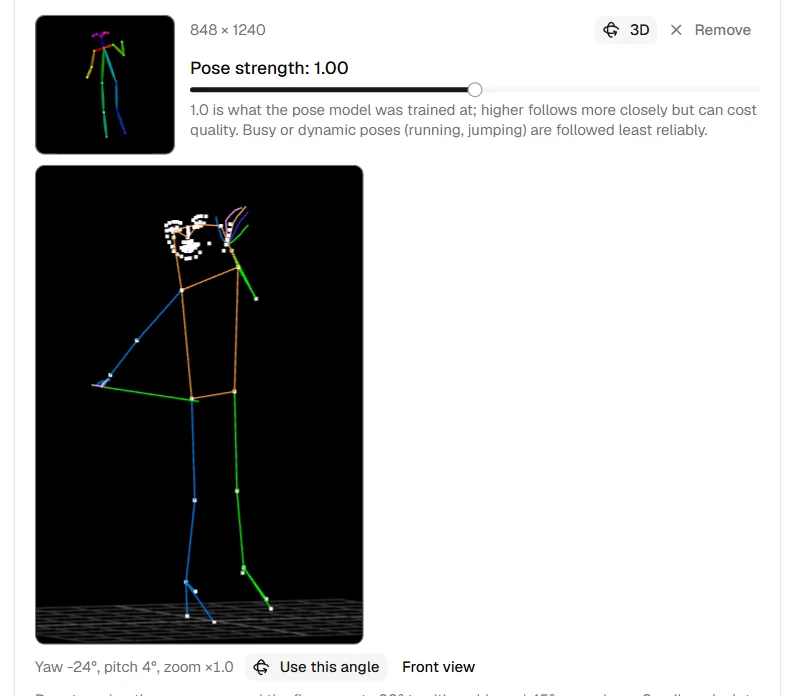
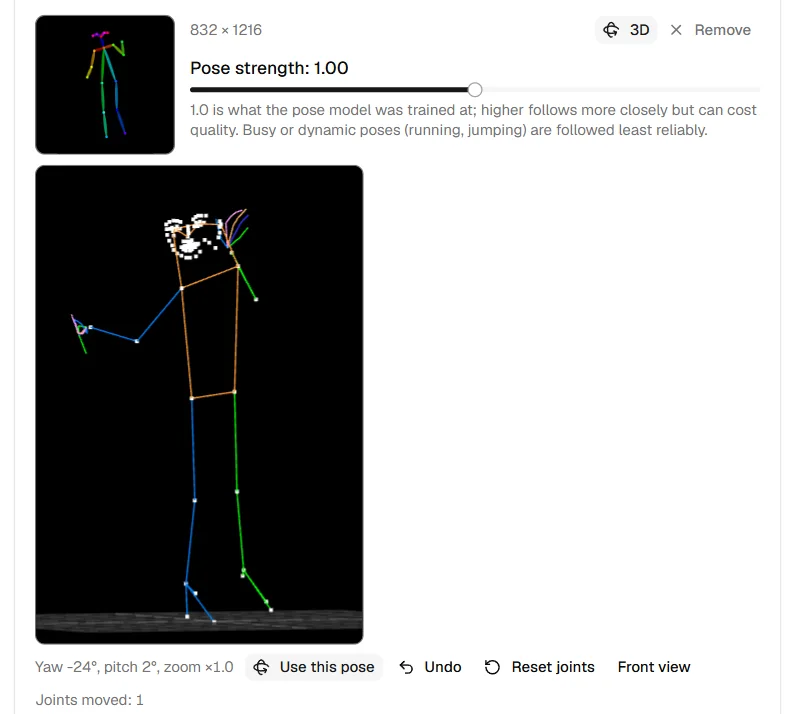
Show a raised hand in the guide's 3D view screenshot (#139)
* Show a raised hand in the guide's 3D view screenshot

The shot raises the lower wrist, found from the 3D answer, then swings
the camera from a corner away from the figure, and takes Undo, Reset
joints and the moves count in.

* Retake the guide's 3D view screenshot with a raised hand

Reusing a gallery drawn before left the engine's model unloaded, so the
3D shot now loads it and waits for pose; shotBetween takes a smaller
margin below, so the next line does not show cut in half.

---------

diff --git a/e2e/screenshots/engine.shots.ts b/e2e/screenshots/engine.shots.ts
@@ -41,8 +41,21 @@ test('the engine draws the gallery', async ({ page }) => {
   if (earlier && existsSync(earlier)) cpSync(earlier, path.join(root, 'out'), { recursive: true })
   const drawn = readdirSync(path.join(root, 'out')).join('\n')
   const missing = PICTURES.filter(([, , seed]) => !drawn.includes(`_engine_${seed}_`))
-  if (missing.length === 0) return
   await openGenerate(page, 'engine')
+  if (missing.length === 0) {
+    // Nothing to draw, so nothing loads the model; the shots after this need it in.
+    // Asked again until the engine is up to take it (409 until then).
+    await expect
+      .poll(
+        async () => {
+          const load = await page.request.post('/api/engine/models/load', { data: { id: process.env.DOCS_ENGINE_MODEL } })
+          return `${load.status()} ${await load.text()}`
+        },
+        { timeout: 3 * 60_000, intervals: [3000] }
+      )
+      .toMatch(/^202 /)
+    return
+  }
   const generate = page.getByRole('button', { name: 'Generate', exact: true })
   for (const [prompt, size, seed] of missing) {
     await page.locator('#prompt').fill(prompt)
@@ -82,6 +95,8 @@ take('screenshot-viewer')('viewer, with WD14 tags', async ({ page }) => {
 })
 
 take('manual-3d')('3D view, from a full-body picture', async ({ page }) => {
+  // With the gallery reused, the engine may still be loading its model.
+  test.setTimeout(10 * 60_000)
   // Tall enough that nothing scrolls under the sticky header.
   await page.setViewportSize({ width: 1280, height: 2400 })
   await openGallery(page)
@@ -96,20 +111,49 @@ take('manual-3d')('3D view, from a full-body picture', async ({ page }) => {
     await picker.click()
     await page.getByRole('option').filter({ has: page.getByText('engine', { exact: true }) }).click()
   }
-  // Draw the skeleton from the reference, then open the 3D view.
-  await page.getByRole('button', { name: "Use the source's pose" }).click()
+  // Draw the skeleton from the reference (pose shows once the model is in), then open the 3D view.
+  const fromSource = page.getByRole('button', { name: "Use the source's pose" })
+  await expect(fromSource).toBeVisible({ timeout: 5 * 60_000 })
+  await fromSource.click()
   await expect(page.getByRole('img', { name: 'Skeleton pose' })).toBeVisible({ timeout: 120_000 })
+  const isPose = (url: string) => /\/api\/gen\/[^/]+\/pose$/.test(new URL(url).pathname)
+  const answered = page.waitForResponse((response) => isPose(response.url()) && response.request().postDataJSON()?.want_3d === true)
   await page.getByRole('button', { name: '3D', exact: true }).click()
+  const response = await answered
+  const { width, height } = response.request().postDataJSON() as { width: number; height: number }
+  const answer = (await response.json()) as { person: number; people: { points_3d: number[][]; scores: number[] }[] }
   await expect(page.getByText(/^Yaw 0°/)).toBeVisible({ timeout: 120_000 })
   const view = page.locator('canvas:visible').last()
   await view.scrollIntoViewIfNeeded()
   const box = (await view.boundingBox())!
-  await page.mouse.move(box.x + box.width / 2, box.y + box.height / 2)
+
+  // Raise the lower hand: from the front, a point in picture widths (y down)
+  // shows where the 832×1216 picture, letterboxed onto the output, puts it.
+  const aspect = 1216 / 832
+  const scale = Math.min(width, height / aspect)
+  const onCanvas = ([x, y]: number[]) => ({
+    x: box.x + (((width - scale) / 2 + x * scale) / width) * box.width,
+    y: box.y + (((height - scale * aspect) / 2 + y * scale) / height) * box.height,
+  })
+  const { points_3d: points, scores } = answer.people[Math.max(0, answer.person)]
+  const wrist = [9, 10].filter((joint) => scores[joint] >= 0.3).sort((a, b) => points[b][1] - points[a][1])[0]
+  const shoulder = points[wrist - 4]
+  const from = onCanvas(points[wrist])
+  const outward = Math.sign(points[wrist][0] - shoulder[0]) || 1
+  await page.mouse.move(from.x, from.y)
   await page.mouse.down()
-  await page.mouse.move(box.x + box.width / 2 + 25, box.y + box.height / 2 + 4, { steps: 6 })
+  await page.mouse.move(from.x + 18 * outward, from.y - 40, { steps: 8 })
   await page.mouse.up()
+  await expect(page.getByText('Joints moved: 1')).toBeVisible()
+
+  // Then swing the camera a little, from a corner well away from the figure.
+  await page.mouse.move(box.x + 8, box.y + box.height - 8)
+  await page.mouse.down()
+  await page.mouse.move(box.x + 33, box.y + box.height - 6, { steps: 6 })
+  await page.mouse.up()
+  await expect(page.getByText(/^Yaw -?[1-9]\d*°/)).toBeVisible()
   await expect(page.getByRole('button', { name: 'Use this pose' })).toBeEnabled()
-  await shotBetween(page, 'manual-3d', page.getByRole('img', { name: 'Skeleton pose' }), page.getByRole('button', { name: 'Use this pose' }), page.locator('[data-slot="card"]').first())
+  await shotBetween(page, 'manual-3d', page.getByRole('img', { name: 'Skeleton pose' }), page.getByText('Joints moved: 1'), page.locator('[data-slot="card"]').first(), 4)
 })
 
 take('manual-setup')('Setup with the engine running', async ({ page }) => {

diff --git a/e2e/screenshots/shared.ts b/e2e/screenshots/shared.ts
@@ -91,8 +91,8 @@ export async function shot(page: Page, name: string, target?: Locator) {
   await writeWebp(name, png)
 }
 
-/** From the top of one locator to the bottom of another, across the page's width or the given column. */
-export async function shotBetween(page: Page, name: string, top: Locator, bottom: Locator, column?: Locator) {
+/** From the top of one locator to the bottom of another, across the page's width or the given column; `below` is the margin under it (smaller when the next line sits close). */
+export async function shotBetween(page: Page, name: string, top: Locator, bottom: Locator, column?: Locator, below = 12) {
   await checkClean(page)
   await page.waitForTimeout(400)
   const a = (await top.boundingBox())!
@@ -102,7 +102,7 @@ export async function shotBetween(page: Page, name: string, top: Locator, bottom
   const png = await page.screenshot({
     animations: 'disabled',
     fullPage: true,
-    clip: { x: Math.max(0, c.x - pad), y: Math.max(0, a.y - pad), width: Math.min(WIDTH, c.width + 2 * pad), height: b.y + b.height - a.y + 2 * pad },
+    clip: { x: Math.max(0, c.x - pad), y: Math.max(0, a.y - pad), width: Math.min(WIDTH, c.width + 2 * pad), height: b.y + b.height - a.y + pad + below },
   })
   await writeWebp(name, png)
 }

diff --git a/docs/guide/pose.md b/docs/guide/pose.md
@@ -35,7 +35,7 @@ run sends only the skeleton, so the people's looks do not carry over.
 
 ## Turn it and frame it in 3D
 
-![The skeleton and the 3D view turned to one side, with Use this pose](../assets/manual-3d.webp){ width="420" }
+![The skeleton and the 3D view turned to one side with a hand raised, Use this pose, Undo and Reset joints](../assets/manual-3d.webp){ width="420" }
 
 Press **3D** to open the 3D view. It has the output's shape and shows exactly
 what the skeleton will cover.
